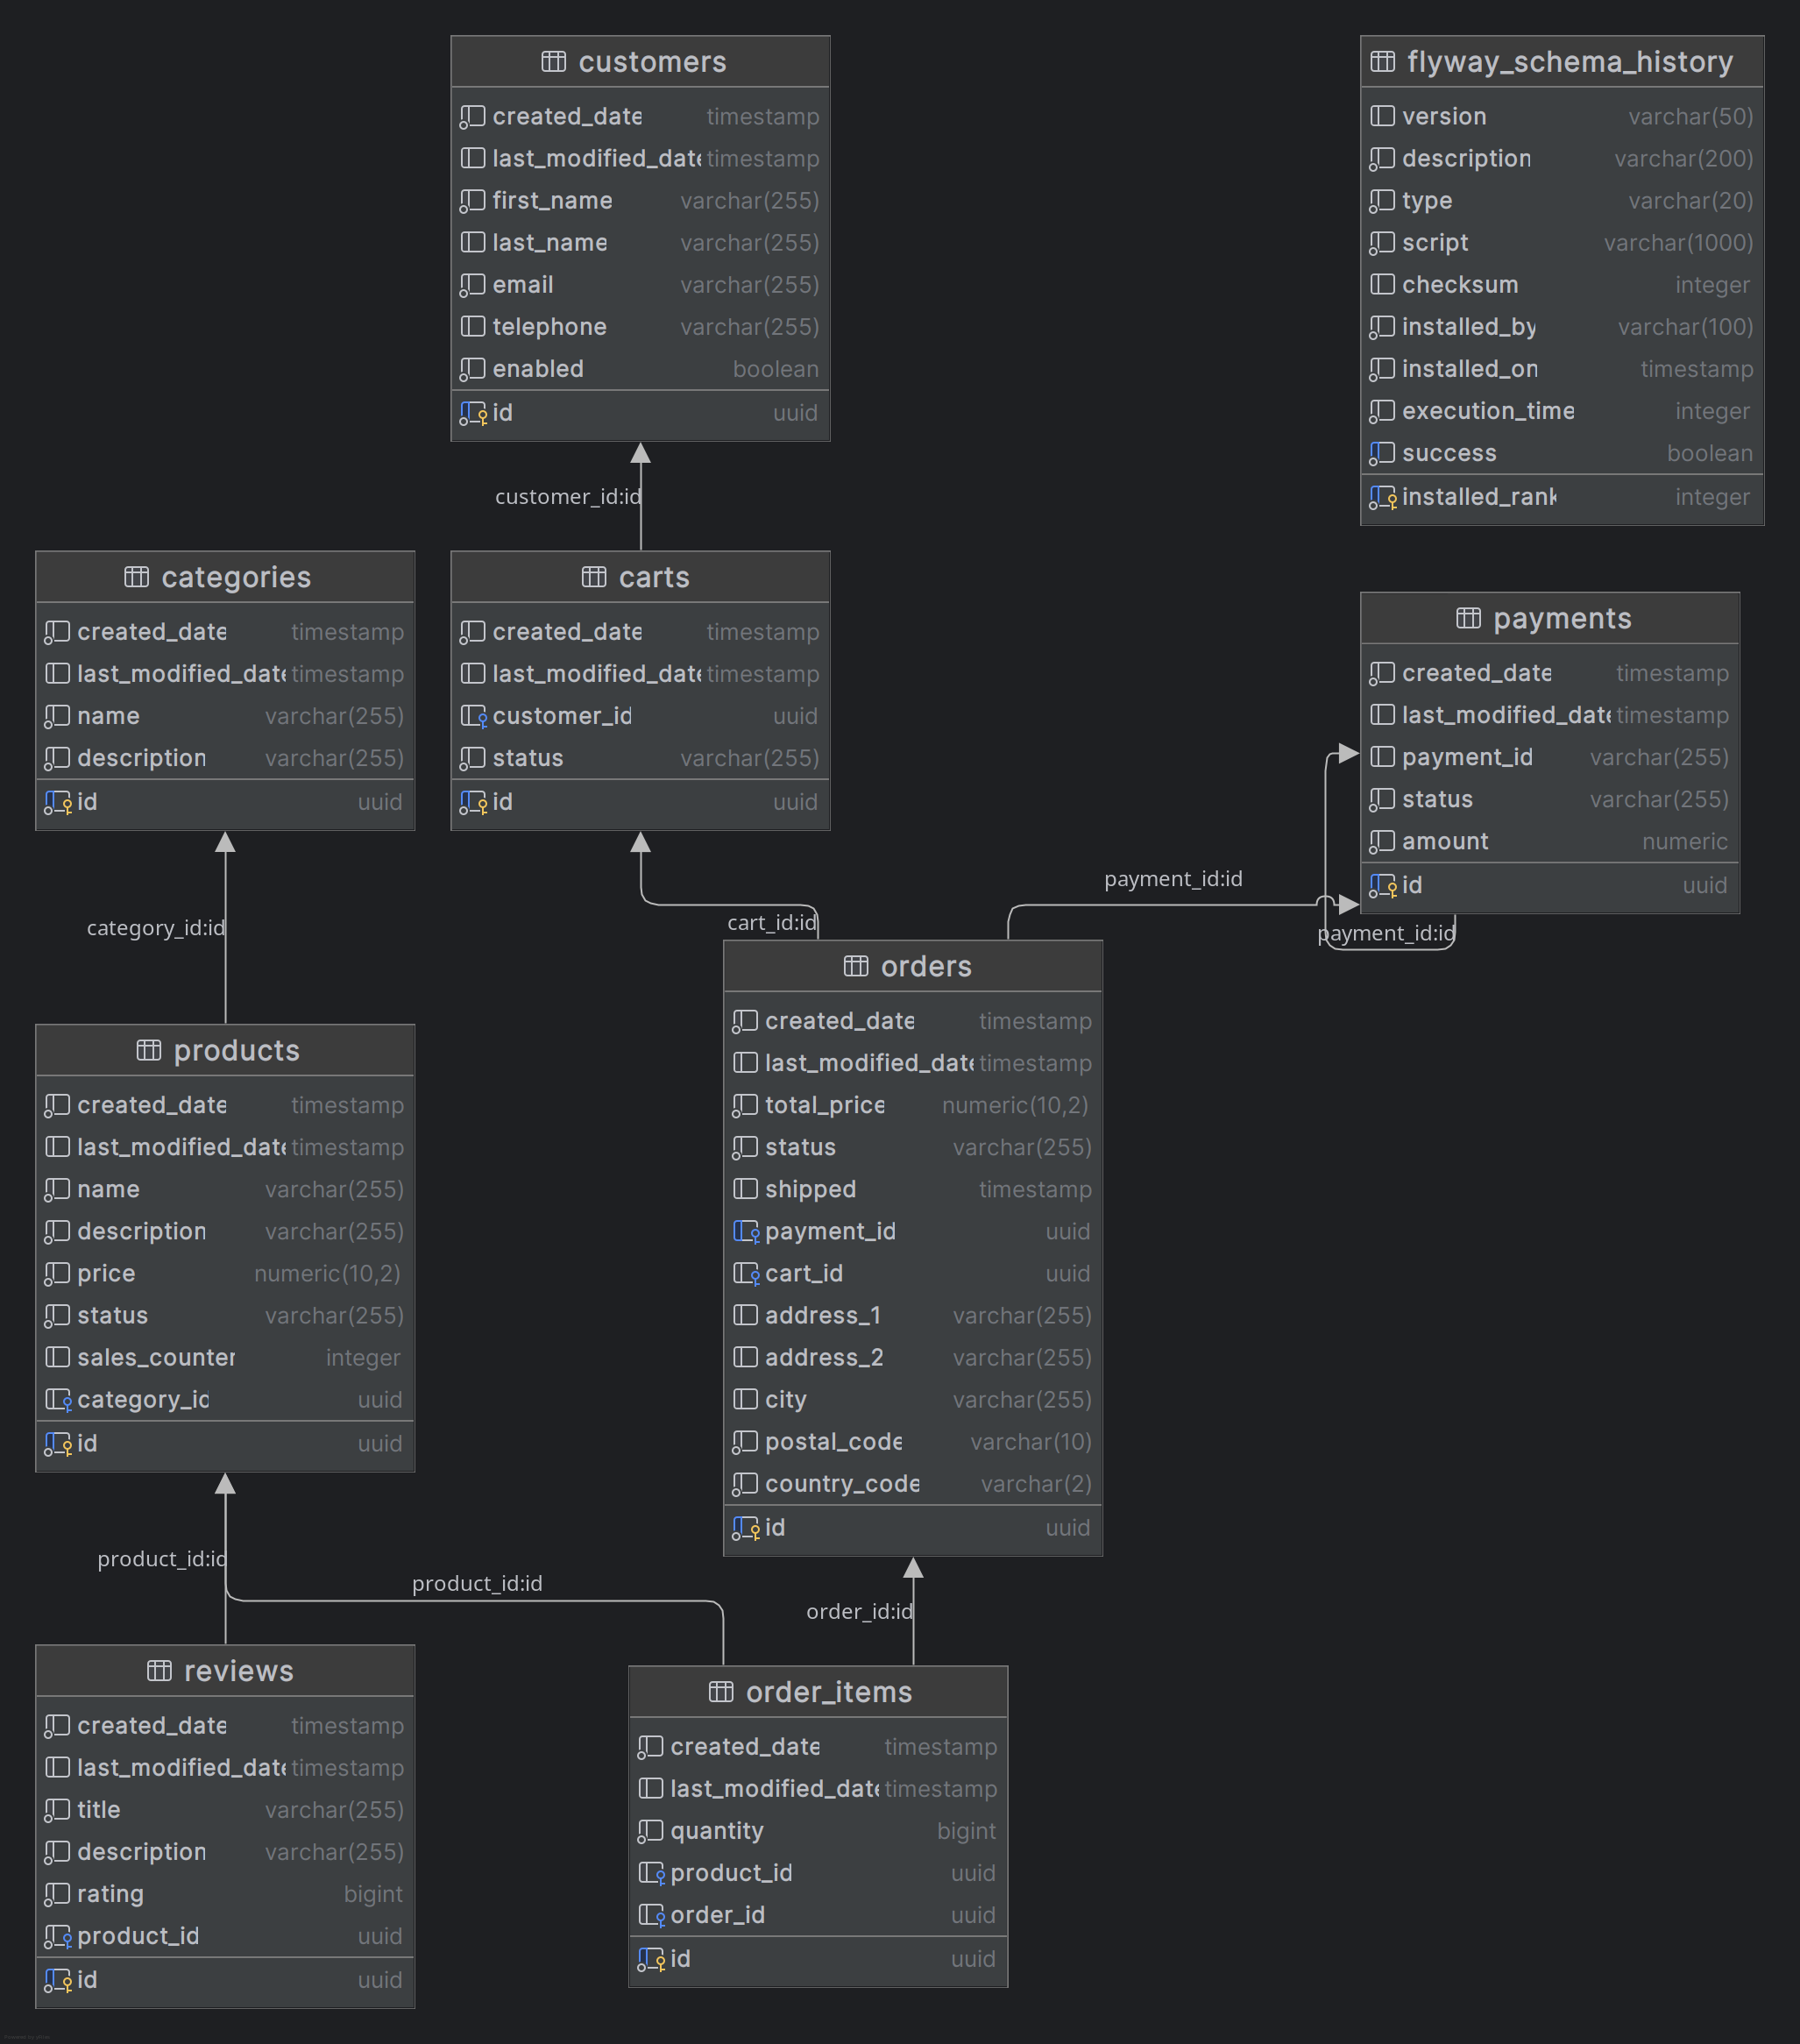
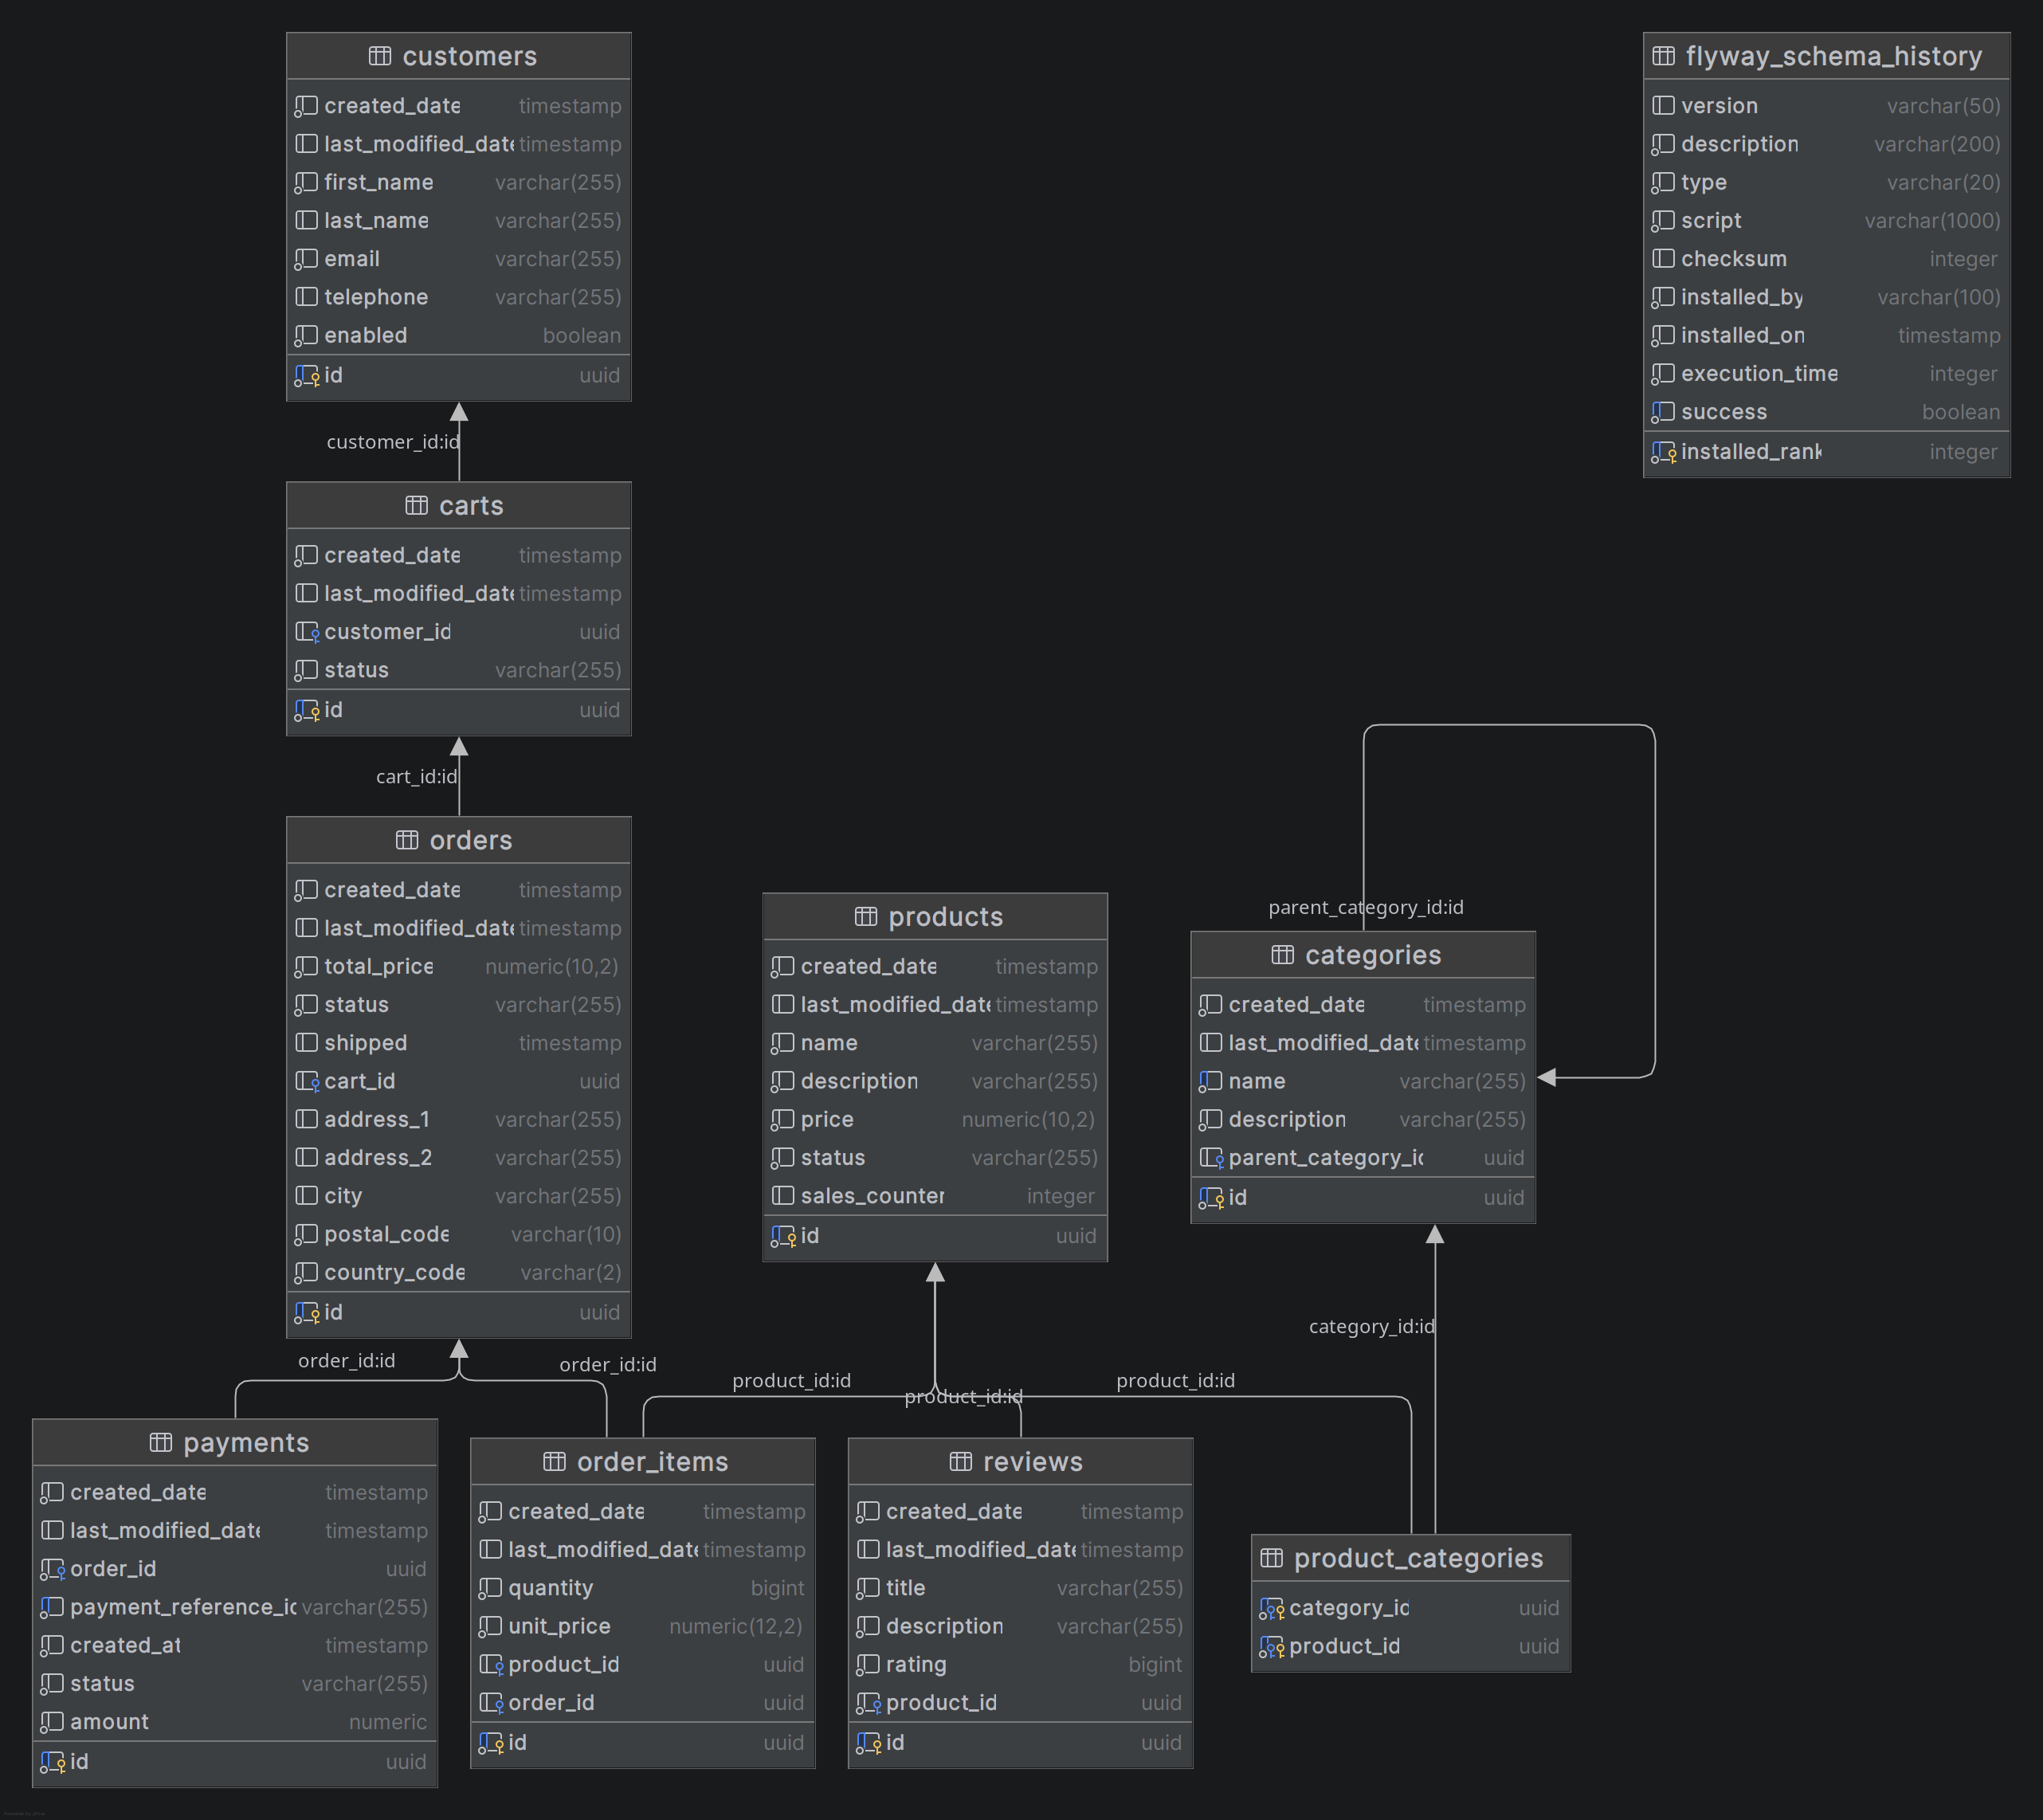
feat: added indexes

diff --git a/shop/src/main/java/me/shail/models/Cart.java b/shop/src/main/java/me/shail/models/Cart.java
@@ -7,12 +7,15 @@ import lombok.ToString;
 import me.shail.models.base.AbstractEntity;
 import me.shail.models.enums.CartStatus;
 
-import java.util.Objects;
-
 @Entity
 @NoArgsConstructor
 @ToString(callSuper = true)
-@Table(name = "carts")
+@Table(
+        name = "carts",
+        indexes = {
+                @Index(name = "idx_carts_customer_status", columnList = "customer_id, status")
+        }
+)
 public class Cart extends AbstractEntity {
 
     @ManyToOne(fetch = FetchType.LAZY) // Industry standard: Always use Lazy for ManyToOne
@@ -29,14 +32,15 @@ public class Cart extends AbstractEntity {
     }
 
     @Override
-    public boolean equals(Object obj) {
-        if (this == obj) return true;
-        if (!(obj instanceof Cart cart)) return false;
-        return Objects.equals(customer.id, cart.customer.id) && Objects.equals(status, cart.status);
+    public boolean equals(Object o) {
+        if (this == o) return true;
+        if (!(o instanceof Cart cart)) return false;
+        // Relying strictly on the AbstractEntity ID to prevent Lazy load crashes
+        return id != null && id.equals(cart.id);
     }
 
     @Override
     public int hashCode() {
-        return Objects.hash(customer.id, status);
+        return getClass().hashCode(); // Standard safe practice for Hibernate entities
     }
 }

diff --git a/shop/src/main/java/me/shail/models/Review.java b/shop/src/main/java/me/shail/models/Review.java
@@ -1,6 +1,8 @@
 package me.shail.models;
 
 import jakarta.persistence.*;
+import jakarta.validation.constraints.Max;
+import jakarta.validation.constraints.Min;
 import jakarta.validation.constraints.NotNull;
 import lombok.NoArgsConstructor;
 import lombok.ToString;
@@ -11,7 +13,12 @@ import org.hibernate.annotations.OnDeleteAction;
 @Entity
 @NoArgsConstructor
 @ToString(callSuper = true, exclude = "product")
-@Table(name = "reviews")
+@Table(
+        name = "reviews",
+        indexes = {
+                @Index(name = "idx_reviews_product_rating", columnList = "product_id, rating DESC")
+        }
+)
 public class Review extends AbstractEntity {
     @NotNull
     @Column(name = "title", nullable = false)
@@ -22,8 +29,10 @@ public class Review extends AbstractEntity {
     public String description;
 
     @NotNull
+    @Min(1)
+    @Max(5)
     @Column(name = "rating", nullable = false)
-    public Long rating;
+    public Integer rating;
 
     @NotNull
     @ManyToOne(fetch = FetchType.LAZY)
@@ -31,7 +40,7 @@ public class Review extends AbstractEntity {
     @OnDelete(action = OnDeleteAction.CASCADE)
     public Product product;
 
-    public Review(@NotNull String title, @NotNull String description, @NotNull Long rating, @NotNull Product product) {
+    public Review(@NotNull String title, @NotNull String description, @NotNull Integer rating, @NotNull Product product) {
         this.title = title;
         this.description = description;
         this.rating = rating;

diff --git a/shop/src/main/java/me/shail/models/OrderItem.java b/shop/src/main/java/me/shail/models/OrderItem.java
@@ -10,8 +10,14 @@ import java.math.BigDecimal;
 
 @Entity
 @NoArgsConstructor
-@ToString(callSuper = true)
-@Table(name = "order_items")
+@ToString(callSuper = true, exclude = {"product", "order"})
+@Table(
+        name = "order_items",
+        indexes = {
+                @Index(name = "idx_order_items_order_id", columnList = "order_id"),
+                @Index(name = "idx_order_items_product_id", columnList = "product_id")
+        }
+)
 public class OrderItem extends AbstractEntity {
 
     @NotNull

diff --git a/shop/src/main/java/me/shail/models/Product.java b/shop/src/main/java/me/shail/models/Product.java
@@ -48,7 +48,8 @@ public class Product extends AbstractEntity {
             name = Product.TABLE_PRODUCT_CATEGORIES,
             joinColumns = @JoinColumn(name = "product_id"),
             inverseJoinColumns = @JoinColumn(name = "category_id"),
-            uniqueConstraints = @UniqueConstraint(columnNames = {"product_id", "category_id"})
+            uniqueConstraints = @UniqueConstraint(columnNames = {"product_id", "category_id"}),
+            indexes = @Index(name = "idx_product_categories_category_id", columnList = "category_id")
     )
     @OnDelete(action = OnDeleteAction.CASCADE)
     public Set<Category> categories = new HashSet<>();

diff --git a/shop/src/main/java/me/shail/dtos/ReviewDto.java b/shop/src/main/java/me/shail/dtos/ReviewDto.java
@@ -6,6 +6,6 @@ public record ReviewDto(
         UUID id,
         String title,
         String description,
-        Long rating
+        Integer rating
 ) {
 }

diff --git a/shop/src/test/java/me/shail/helpers/data/faker/ReviewDtoFaker.java b/shop/src/test/java/me/shail/helpers/data/faker/ReviewDtoFaker.java
@@ -14,7 +14,7 @@ public class ReviewDtoFaker {
                 null,
                 faker.lorem().sentence(3),
                 faker.lorem().paragraph(2),
-                faker.number().numberBetween(1L, 6L)
+                faker.number().numberBetween(1, 6)
         );
     }
 